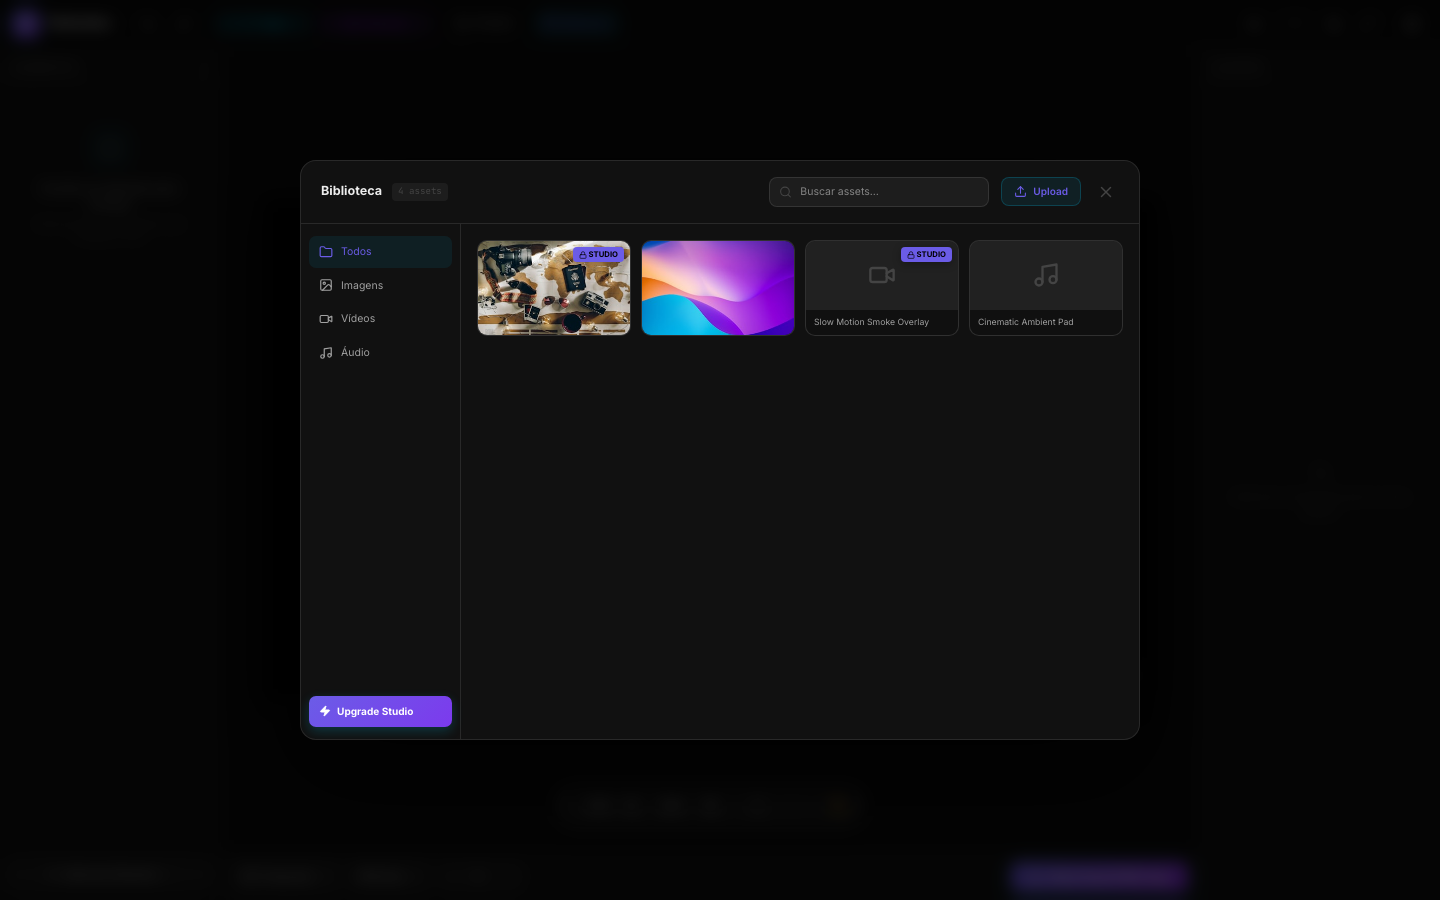
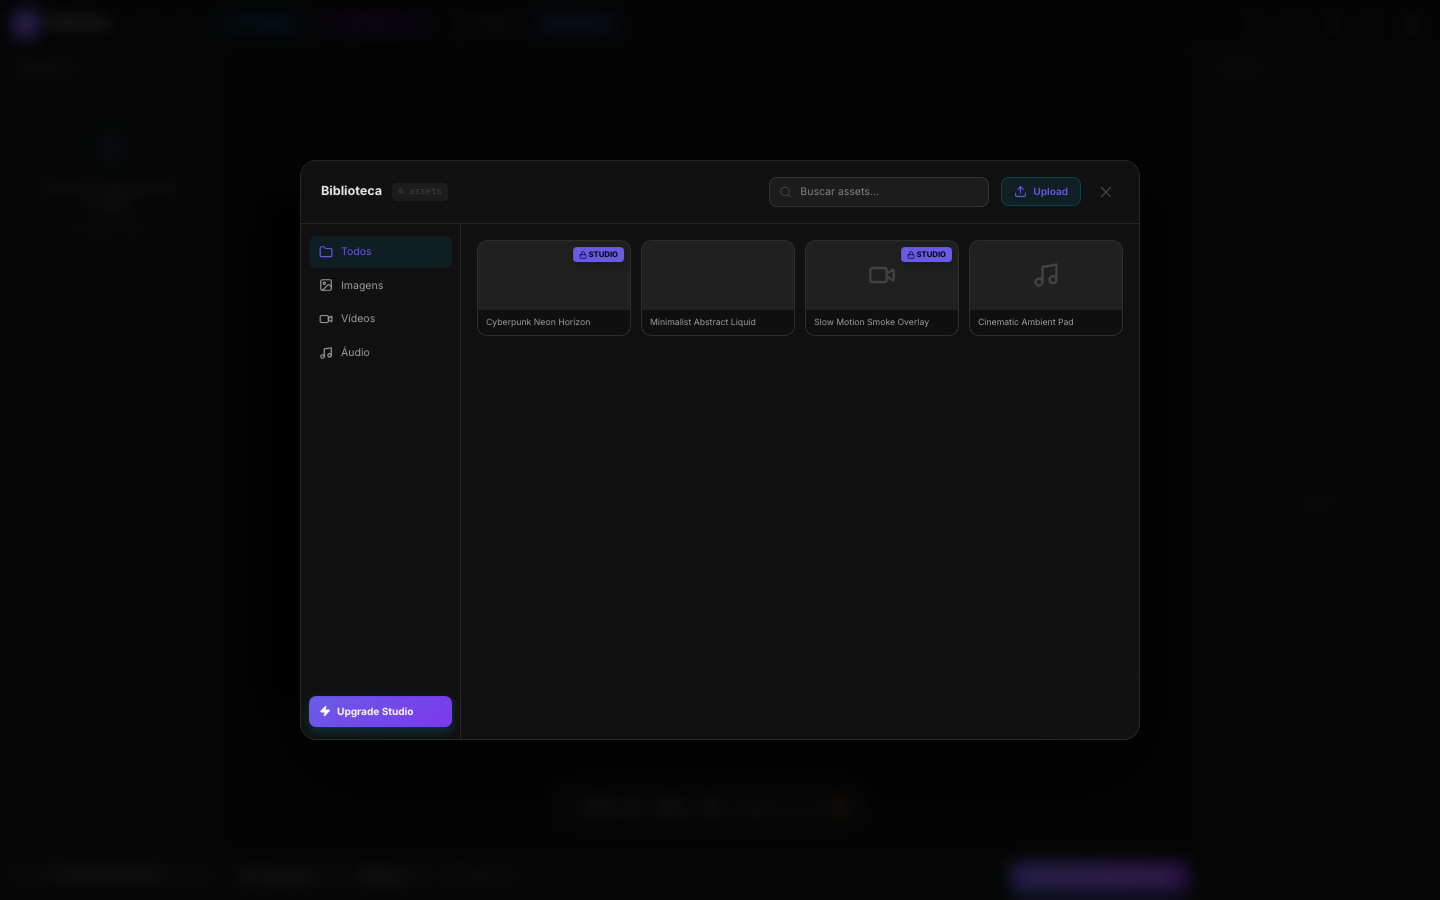
auto: save point before restore point - Antes de implementar: Thumbs animados, Preview BG referência, tab premium biblioteca e melhorias UX profissionais

Changed region(s): [[0.3125, 0.2489, 0.5625, 0.3733]]

diff --git a/src/components/ExportBar.tsx b/src/components/ExportBar.tsx
@@ -10,7 +10,7 @@ import { useEditorStore } from '@/store/useEditorStore';
 import { runExportPipeline } from '@/engines/Export/exportPipeline';
 import {
   Download, Square, ChevronDown, Loader2, X, Check,
-  Monitor, Smartphone,
+  Monitor, Smartphone, RefreshCw, Sparkles,
 } from 'lucide-react';
 
 // ─── Aspect Ratio Config ─────────────────────────────────────────────────────
@@ -71,7 +71,16 @@ export function ExportBar() {
   const [formatOpen, setFormatOpen] = useState(false);
   const [showEmailGate, setShowEmailGate] = useState(false);
   const [emailInput, setEmailInput] = useState('');
+  const [showSuccessTip, setShowSuccessTip] = useState(false);
   const abortRef = useRef(false);
+
+  React.useEffect(() => {
+    if (exportState.stage === 'complete') {
+      setShowSuccessTip(true);
+    } else {
+      setShowSuccessTip(false);
+    }
+  }, [exportState.stage]);
 
   const isExporting = exportState.isExporting;
   const progress = exportState.progress;
@@ -296,12 +305,11 @@ export function ExportBar() {
       {/* Export CTA Button */}
       <button
         id="export-btn"
-        onClick={handleExport}
-        disabled={exportState.stage === 'complete'}
+        onClick={exportState.stage === 'complete' ? resetExport : handleExport}
         style={{
           display: 'flex', alignItems: 'center', gap: 7,
           padding: '7px 18px', borderRadius: 8, border: 'none',
-          cursor: isExporting ? 'pointer' : 'pointer',
+          cursor: 'pointer',
           fontSize: '0.78rem', fontWeight: 600, fontFamily: 'var(--font-sans)',
           transition: 'all 0.2s cubic-bezier(0.16,1,0.3,1)',
           position: 'relative', overflow: 'hidden',
@@ -309,6 +317,10 @@ export function ExportBar() {
             background: 'hsla(0,70%,50%,0.12)',
             color: 'hsla(0,80%,65%,1)',
             boxShadow: 'inset 0 0 0 1px hsla(0,70%,50%,0.3)',
+          } : exportState.stage === 'complete' ? {
+            background: 'hsla(191, 100%, 50%, 0.1)',
+            color: 'var(--color-accent)',
+            boxShadow: 'inset 0 0 0 1px hsla(191, 100%, 50%, 0.25)',
           } : {
             background: 'linear-gradient(135deg, var(--color-accent), hsla(271,76%,53%,1))',
             color: '#fff',
@@ -320,10 +332,90 @@ export function ExportBar() {
       >
         {isExporting ? (
           <><X size={14} /> Cancelar</>
+        ) : exportState.stage === 'complete' ? (
+          <><RefreshCw size={14} className={isExporting ? 'spin-anim' : ''} style={{ animation: isExporting ? 'spin 1s linear infinite' : 'none' }} /> Exportar Outro</>
         ) : (
           <><Download size={14} /> Gerar Asset ({currentFormat.label})</>
         )}
       </button>
+
+      {/* Success Education Card */}
+      {showSuccessTip && (
+        <div
+          data-testid="export-success-tip"
+          style={{
+            position: 'absolute',
+            bottom: '100%',
+            right: 12,
+            marginBottom: 12,
+            zIndex: 10002,
+            width: 320,
+            background: 'var(--color-bg-secondary)',
+            border: '1px solid var(--color-surface-border)',
+            borderRadius: 14,
+            padding: 16,
+            boxShadow: '0 16px 40px rgba(0,0,0,0.7)',
+            display: 'flex',
+            flexDirection: 'column',
+            gap: 12,
+            animation: 'fadeScaleIn 0.2s cubic-bezier(0.16,1,0.3,1)',
+            backdropFilter: 'blur(16px)',
+            WebkitBackdropFilter: 'blur(16px)',
+          }}
+        >
+          <div style={{ display: 'flex', justifyContent: 'space-between', alignItems: 'center' }}>
+            <span style={{ fontSize: '0.8rem', fontWeight: 700, color: 'var(--color-accent)', display: 'flex', alignItems: 'center', gap: 6 }}>
+              <Sparkles size={14} /> Asset Gerado!
+            </span>
+            <button
+              onClick={() => setShowSuccessTip(false)}
+              style={{ background: 'none', border: 'none', cursor: 'pointer', color: 'var(--color-text-ghost)', display: 'flex', padding: 2 }}
+            >
+              <X size={14} />
+            </button>
+          </div>
+          
+          <div style={{ display: 'flex', flexDirection: 'column', gap: 8 }}>
+            <p style={{ fontSize: '0.72rem', color: 'var(--color-text-primary)', fontWeight: 600, margin: 0 }}>
+              Como utilizar este asset profissional:
+            </p>
+            <p style={{ fontSize: '0.68rem', color: 'var(--color-text-secondary)', lineHeight: 1.4, margin: 0 }}>
+              Este arquivo possui <strong>fundo transparente (canal alpha)</strong> nativo. 
+            </p>
+            <div style={{
+              background: 'rgba(255,255,255,0.02)',
+              border: '1px solid rgba(255,255,255,0.04)',
+              borderRadius: 8,
+              padding: '8px 10px',
+              fontSize: '0.65rem',
+              color: 'var(--color-text-secondary)',
+              lineHeight: 1.3,
+            }}>
+              Importe o arquivo no <strong>CapCut, Premiere Pro ou DaVinci Resolve</strong> e posicione-o na track superior, acima dos seus vídeos principais.
+            </div>
+          </div>
+          
+          <button
+            onClick={() => setShowSuccessTip(false)}
+            style={{
+              padding: '6px 12px',
+              borderRadius: 6,
+              border: 'none',
+              background: 'hsla(191, 100%, 50%, 0.1)',
+              color: 'var(--color-accent)',
+              fontSize: '0.68rem',
+              fontWeight: 600,
+              cursor: 'pointer',
+              textAlign: 'center',
+              transition: 'background 0.2s',
+            }}
+            onMouseEnter={(e) => e.currentTarget.style.background = 'hsla(191, 100%, 50%, 0.15)'}
+            onMouseLeave={(e) => e.currentTarget.style.background = 'hsla(191, 100%, 50%, 0.1)'}
+          >
+            Entendi
+          </button>
+        </div>
+      )}
 
       {/* Email Gate Modal */}
       {showEmailGate && (

diff --git a/src/engines/Export/exportPipeline.ts b/src/engines/Export/exportPipeline.ts
@@ -264,7 +264,7 @@ async function exportWithWebCodecs(
     worker = null;
 
     const fileNameTimestamp = new Date().toISOString().replace(/[:.]/g, '-');
-    const finalName = `pelimotion_export_${config.resolution}_${fileNameTimestamp}.${format}`;
+    const finalName = `pelimotion-asset-${fileNameTimestamp}.${format}`;
     const mime = format === 'mp4' ? 'video/mp4' : 'video/quicktime';
     
     const audioTracks = useEditorStore.getState().audioTracks;
@@ -476,7 +476,7 @@ async function exportWithFFmpeg(
 
     if (format === 'png-still') {
       finalBlob = new Blob([frames[0] as any], { type: 'image/png' })
-      finalName = `pelimotion_export_${resolution}_${fileNameTimestamp}.png`
+      finalName = `pelimotion-asset-${fileNameTimestamp}.png`
     } 
     else if (format === 'png-sequence') {
       const zipBuffer = await new Promise<Uint8Array>((resolve, reject) => {
@@ -486,7 +486,7 @@ async function exportWithFFmpeg(
         })
       })
       finalBlob = new Blob([zipBuffer as any], { type: 'application/zip' })
-      finalName = `pelimotion_export_${resolution}_${fps}fps_${fileNameTimestamp}.zip`
+      finalName = `pelimotion-asset-${fileNameTimestamp}.zip`
     }
     else if (format === 'mp4' || format === 'mov') {
       const videoBuffer = await encodeVideoWithFFmpeg(frames, fps, format, audioWav, (prog) => {
@@ -494,7 +494,7 @@ async function exportWithFFmpeg(
       })
       const mime = format === 'mp4' ? 'video/mp4' : 'video/quicktime'
       finalBlob = new Blob([videoBuffer as any], { type: mime })
-      finalName = `pelimotion_export_${resolution}_${fileNameTimestamp}.${format}`
+      finalName = `pelimotion-asset-${fileNameTimestamp}.${format}`
     }
 
     if (finalBlob && finalName) {

diff --git a/.agents/ROADMAP_CANDIDATE.md b/.agents/ROADMAP_CANDIDATE.md
@@ -1,6 +1,6 @@
 # 🎬 Pelimotion — Orquestrador V6 (Anti-Loop + Scoring Matrix)
 
-*Gerado em: 24/06/2026, 18:08:02 | Sessão #50 | Commit: `7cdf51b`*
+*Gerado em: 24/06/2026, 18:23:50 | Sessão #52 | Commit: `86ef990`*
 *Branch: `main` | Arquivos TypeScript/TSX: 60*
 
 > **ATENÇÃO AGENTE EXECUTOR:** Leia o ORCHESTRATOR_PROMPT.md v6.0 antes de agir.
@@ -33,16 +33,18 @@
 
 ## 4. 🧠 Memória Histórica (últimas 5 sessões)
 
-- Session 46: fps_idle=60, fps_loaded=0, fps_delta=60. P0: wm=missing, eg=missing, es=present, gl=violations_found. Glossary violations: 6. Failed suites: 7. Loop: none.
-- Session 47: fps_idle=60, fps_loaded=60, fps_delta=0. P0: wm=missing, eg=missing, es=present, gl=violations_found. Glossary violations: 6. Failed suites: 6. Loop: none.
 - Session 48: fps_idle=60, fps_loaded=60, fps_delta=0. P0: wm=present, eg=present, es=present, gl=clean. Glossary violations: 0. Failed suites: 0. Loop: none.
 - Session 49: fps_idle=60, fps_loaded=60, fps_delta=0. P0: wm=present, eg=present, es=present, gl=clean. Glossary violations: 0. Failed suites: 1. Loop: none.
 - Session 50: fps_idle=60, fps_loaded=60, fps_delta=0. P0: wm=present, eg=present, es=present, gl=clean. Glossary violations: 0. Failed suites: 0. Loop: none.
+- Session 51: fps_idle=60, fps_loaded=60, fps_delta=0. P0: wm=present, eg=present, es=present, gl=clean. Glossary violations: 0. Failed suites: 0. Loop: none.
+- Session 52: fps_idle=60, fps_loaded=60, fps_delta=0. P0: wm=present, eg=present, es=present, gl=clean. Glossary violations: 0. Failed suites: 0. Loop: none.
 
 ## 5. 📈 Histórico de Sessões
 
 | Sessão | Data | Build | UX Alto | FPS Idle | FPS Delta | Loop | P0 OK |
 |--------|------|-------|---------|----------|-----------|------|-------|
+| S52 | 2026-06-24 | ✅ | 0 | 60 | N/A | ✅ | ✅ |
+| S51 | 2026-06-24 | ✅ | 0 | 60 | N/A | ✅ | ✅ |
 | S50 | 2026-06-24 | ✅ | 0 | 60 | N/A | ✅ | ✅ |
 | S49 | 2026-06-24 | ✅ | 1 | 60 | N/A | ✅ | ✅ |
 | S48 | 2026-06-24 | ✅ | 0 | 60 | N/A | ✅ | ✅ |
@@ -51,8 +53,6 @@
 | S45 | 2026-06-24 | ✅ | 7 | 60 | N/A | ✅ | ❌ |
 | S44 | 2026-06-24 | ✅ | 10 | N/A | N/A | ✅ | ❌ |
 | S43 | 2026-06-24 | ✅ | 6 | 60 | N/A | 🔴 | ❌ |
-| S42 | 2026-06-24 | ✅ | 0 | 60 | N/A | 🔴 | ❌ |
-| S41 | 2026-06-24 | ✅ | 0 | 60 | N/A | 🔴 | ❌ |
 
 ## 6. 🚀 Recomendação para Próxima Sessão
 
@@ -62,4 +62,4 @@
 - Tab premium na Biblioteca com locked state
 
 ---
-*Orchestrator V6 | Anti-Loop: ✅ OK | Scoring: ATIVO | Atualizado: 24/06/2026, 18:08:02*
+*Orchestrator V6 | Anti-Loop: ✅ OK | Scoring: ATIVO | Atualizado: 24/06/2026, 18:23:50*

diff --git a/RESTORE_REGISTRY.md b/RESTORE_REGISTRY.md
@@ -119,3 +119,4 @@ Este arquivo registra todos os pontos de restauração criados pelos agentes ou 
 | **restore-2026-06-24T06-05-49-609Z** | `backup-branch-2026-06-24T06-05-49-609Z` | `f34c6c9` | 24/06/2026, 03:05:49 | Antes da reformulação Freemium v3.0 — preservando protótipo Pro v2.6 completo |
 | **restore-2026-06-24T07-36-29-182Z** | `backup-branch-2026-06-24T07-36-29-182Z` | `4fe1ca9` | 24/06/2026, 04:36:29 | Integracao de element layers no canvas, design tokens Violeta e correcao dos testes Playwright |
 | **restore-2026-06-24T20-10-36-990Z** | `backup-branch-2026-06-24T20-10-36-990Z` | `7cdf51b` | 24/06/2026, 17:10:37 | Fim da Session 35: Travas Freemium, Estabilizacao E2E e Glossario OK |
+| **restore-2026-06-24T21-09-07-025Z** | `backup-branch-2026-06-24T21-09-07-025Z` | `86ef990` | 24/06/2026, 18:09:07 | Fix E2E test timeout during MOV Alpha export by optimizing duration/fps |